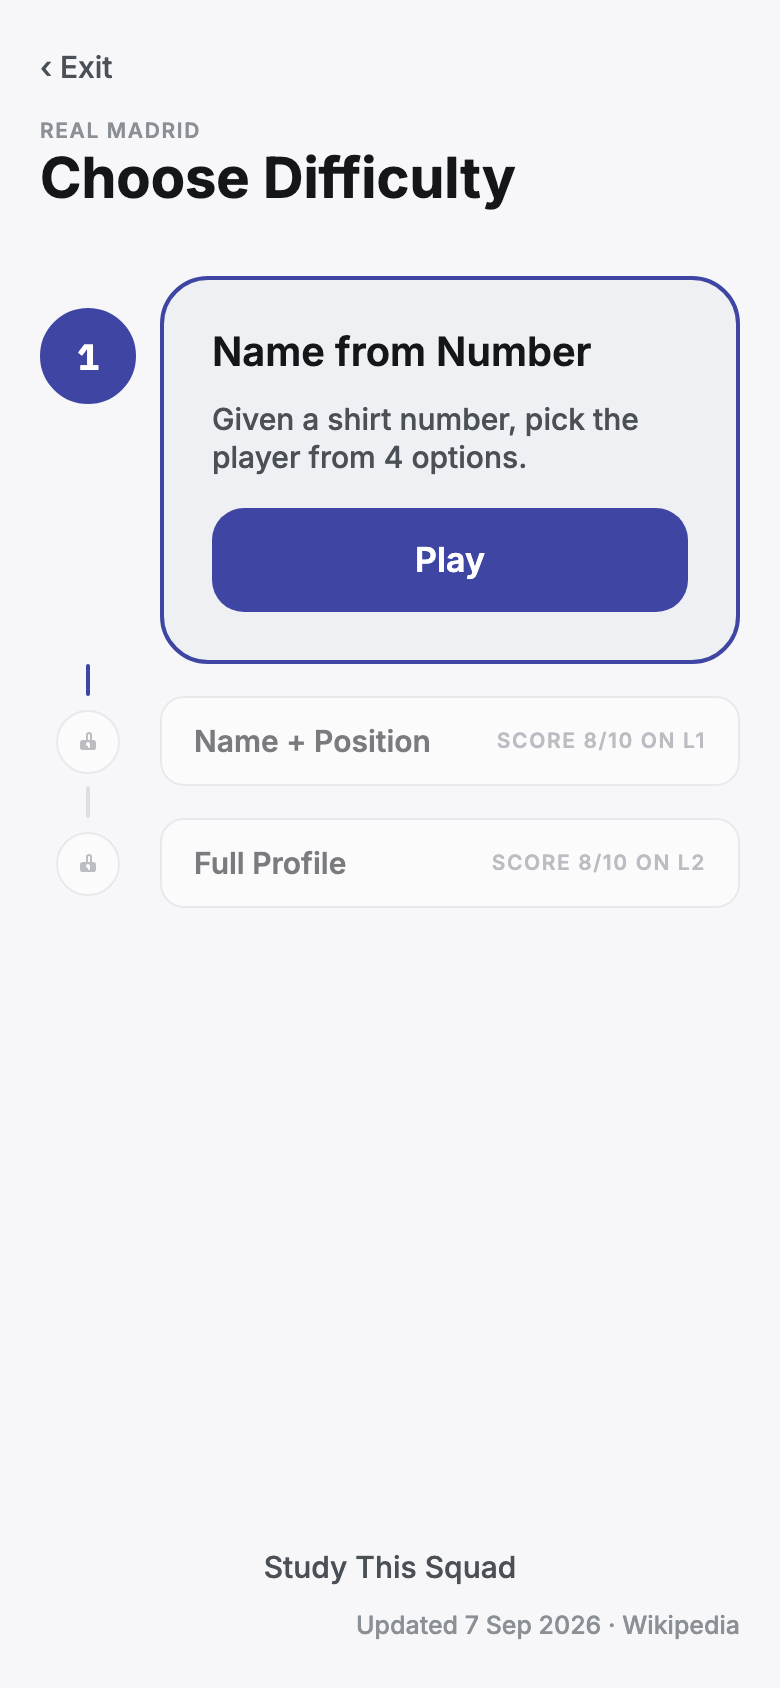
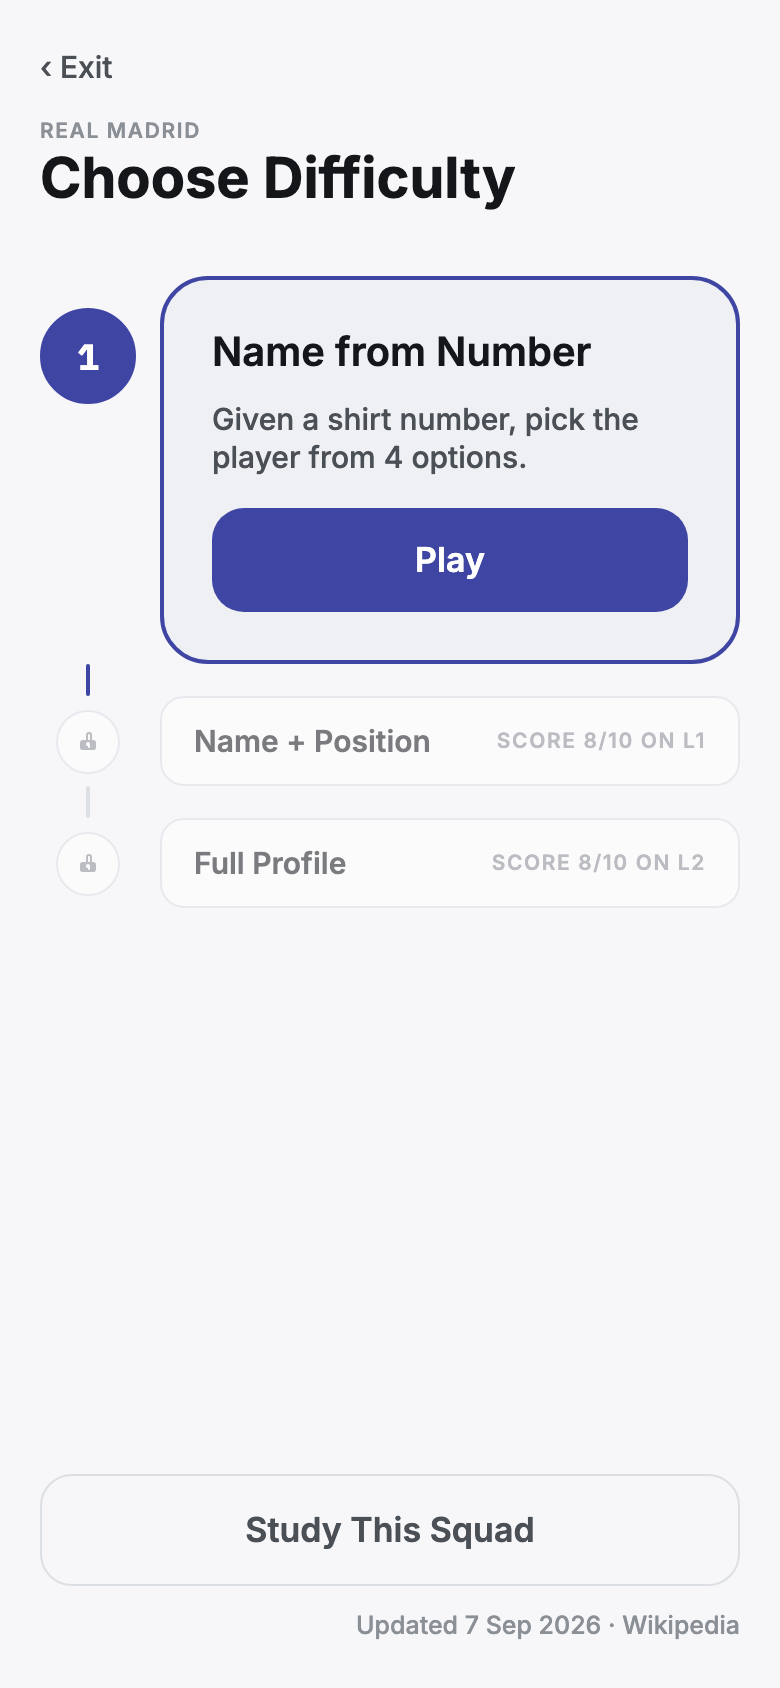
fix: keep Study a full button until level 1 is cleared (#67)
Before anything is cleared, studying the squad first is a real
alternative to playing, so Study stays the outline button it was. Past
level 1 it steps down to a link, now with room above the footnote.

Changed region(s): [[0.3077, 0.8934, 0.7077, 0.955]]

diff --git a/app/team/[squadId]/difficulty.tsx b/app/team/[squadId]/difficulty.tsx
@@ -45,7 +45,8 @@ export default function Difficulty() {
     eyebrow: { ...typography.captionEyebrow, color: colors.textMuted, marginTop: spacing.md },
     title: { ...typography.screenTitle, color: colors.textPrimary, marginBottom: spacing.xxl },
     spacer: { flex: 1 },
-    studyLink: { marginTop: spacing.lg, alignItems: 'center' },
+    studyButton: { marginTop: spacing.lg },
+    studyLink: { marginTop: spacing.lg, marginBottom: spacing.md, alignItems: 'center' },
     updated: {
       ...typography.descriptionSmall,
       color: colors.textMuted,
@@ -59,6 +60,7 @@ export default function Difficulty() {
 
   const rows = ladderRows(squad.id, bestScores);
   const focused = focusedLevel(rows);
+  const studyProminent = focused === 1;
   const play = (level: Level) =>
     router.push({
       pathname: '/play/[squadId]/[level]',
@@ -99,10 +101,14 @@ export default function Difficulty() {
       </View>
       <View style={styles.spacer} />
 
-      <View style={styles.studyLink}>
+      {/* Before the first level is cleared, studying the squad is a real
+          alternative to playing, so it keeps a full outline button; past it,
+          Play is the way forward and Study steps down to a link. */}
+      <View style={studyProminent ? styles.studyButton : styles.studyLink}>
         <Button
           label="Study This Squad"
-          variant="text"
+          variant={studyProminent ? 'outline' : 'text'}
+          large={studyProminent}
           onPress={() =>
             router.push({ pathname: '/team/[squadId]/study', params: { squadId: squad.id } })
           }

diff --git a/design/SCREENS.md b/design/SCREENS.md
@@ -76,14 +76,14 @@ deliberate constraint is distinguishable from an accident.
 Six routes (the results route renders two distinct states, ordinary and
 flawless — see below). Route, file, and what it does.
 
-| #   | Route                             | File                                     | Purpose                                                                                                                                                                                                                                                 |
-| --- | --------------------------------- | ---------------------------------------- | ------------------------------------------------------------------------------------------------------------------------------------------------------------------------------------------------------------------------------------------------------- |
-| 1   | `/`                               | `app/index.tsx`                          | Home. Centred, stacked wordmark lockup as the headline, continue-card for the last played team, Start Training.                                                                                                                                         |
-| 2   | `/team-picker`                    | `app/team-picker.tsx`                    | Team picker, segmented into Clubs and National Teams. Each row shows a mono sub-line — `LEVEL n · BEST n/10` or `NOT PLAYED`, green once cleared.                                                                                                       |
-| 3   | `/team/[squadId]/difficulty`      | `app/team/[squadId]/difficulty.tsx`      | The difficulty ladder in level order: the focused level expanded into a card with its description and a Play button, the other levels compact (locked ones stating their unlock condition), and Study as a text link.                                   |
-| 4   | `/team/[squadId]/study`           | `app/team/[squadId]/study.tsx`           | Browsable squad list — number, name, position, club or nationality. With a `players` param it narrows to only those players, hides the position filters, and titles itself "Missed Players".                                                            |
-| 5   | `/play/[squadId]/[level]`         | `app/play/[squadId]/[level]/index.tsx`   | A question. Hero slot, stat chips, answer options; on L2/L3 a part rail beside the hero shows each part's earned verdict, with the position/club/nationality parts below.                                                                               |
-| 6   | `/play/[squadId]/[level]/results` | `app/play/[squadId]/[level]/results.tsx` | Score, the players missed, and pass/fail-aware CTAs — `Study These N` is primary on a failed round, filtering Study to the misses, and suppresses `Study This Squad`. A 10/10 round instead renders the flawless "a la escuadra" state, no missed list. |
+| #   | Route                             | File                                     | Purpose                                                                                                                                                                                                                                                                  |
+| --- | --------------------------------- | ---------------------------------------- | ------------------------------------------------------------------------------------------------------------------------------------------------------------------------------------------------------------------------------------------------------------------------ |
+| 1   | `/`                               | `app/index.tsx`                          | Home. Centred, stacked wordmark lockup as the headline, continue-card for the last played team, Start Training.                                                                                                                                                          |
+| 2   | `/team-picker`                    | `app/team-picker.tsx`                    | Team picker, segmented into Clubs and National Teams. Each row shows a mono sub-line — `LEVEL n · BEST n/10` or `NOT PLAYED`, green once cleared.                                                                                                                        |
+| 3   | `/team/[squadId]/difficulty`      | `app/team/[squadId]/difficulty.tsx`      | The difficulty ladder in level order: the focused level expanded into a card with its description and a Play button, the other levels compact (locked ones stating their unlock condition), and Study, an outline button until level 1 is cleared and a text link after. |
+| 4   | `/team/[squadId]/study`           | `app/team/[squadId]/study.tsx`           | Browsable squad list — number, name, position, club or nationality. With a `players` param it narrows to only those players, hides the position filters, and titles itself "Missed Players".                                                                             |
+| 5   | `/play/[squadId]/[level]`         | `app/play/[squadId]/[level]/index.tsx`   | A question. Hero slot, stat chips, answer options; on L2/L3 a part rail beside the hero shows each part's earned verdict, with the position/club/nationality parts below.                                                                                                |
+| 6   | `/play/[squadId]/[level]/results` | `app/play/[squadId]/[level]/results.tsx` | Score, the players missed, and pass/fail-aware CTAs — `Study These N` is primary on a failed round, filtering Study to the misses, and suppresses `Study This Squad`. A 10/10 round instead renders the flawless "a la escuadra" state, no missed list.                  |
 
 ## Captures
 

diff --git a/docs/superpowers/specs/2026-09-24-difficulty-ladder-cta-design.md b/docs/superpowers/specs/2026-09-24-difficulty-ladder-cta-design.md
@@ -55,8 +55,11 @@ Each level has one of three states:
 level is itself a button and starts its level directly; tapping it does not move the
 expansion. A locked level is dimmed (`opacity.disabled`) and not pressable.
 
-**Study This Squad becomes a text link** (`Button variant="text"`), centred below the
-ladder, so it no longer competes with Play.
+**Study This Squad depends on progress.** While the focused level is level 1 (nothing
+cleared yet), studying the squad first is a real alternative to playing, so it stays the
+full-width outline button it was. Once level 1 is cleared, Play is the way forward and Study
+becomes a centred text link (`Button variant="text"`), with a gap above the "Updated …"
+footnote.
 
 **Badges size by state, not by level.** Expanded badge 48px, compact 32px, both centred in
 one fixed-width column so the connector stays on a single axis. The old per-level escalation
